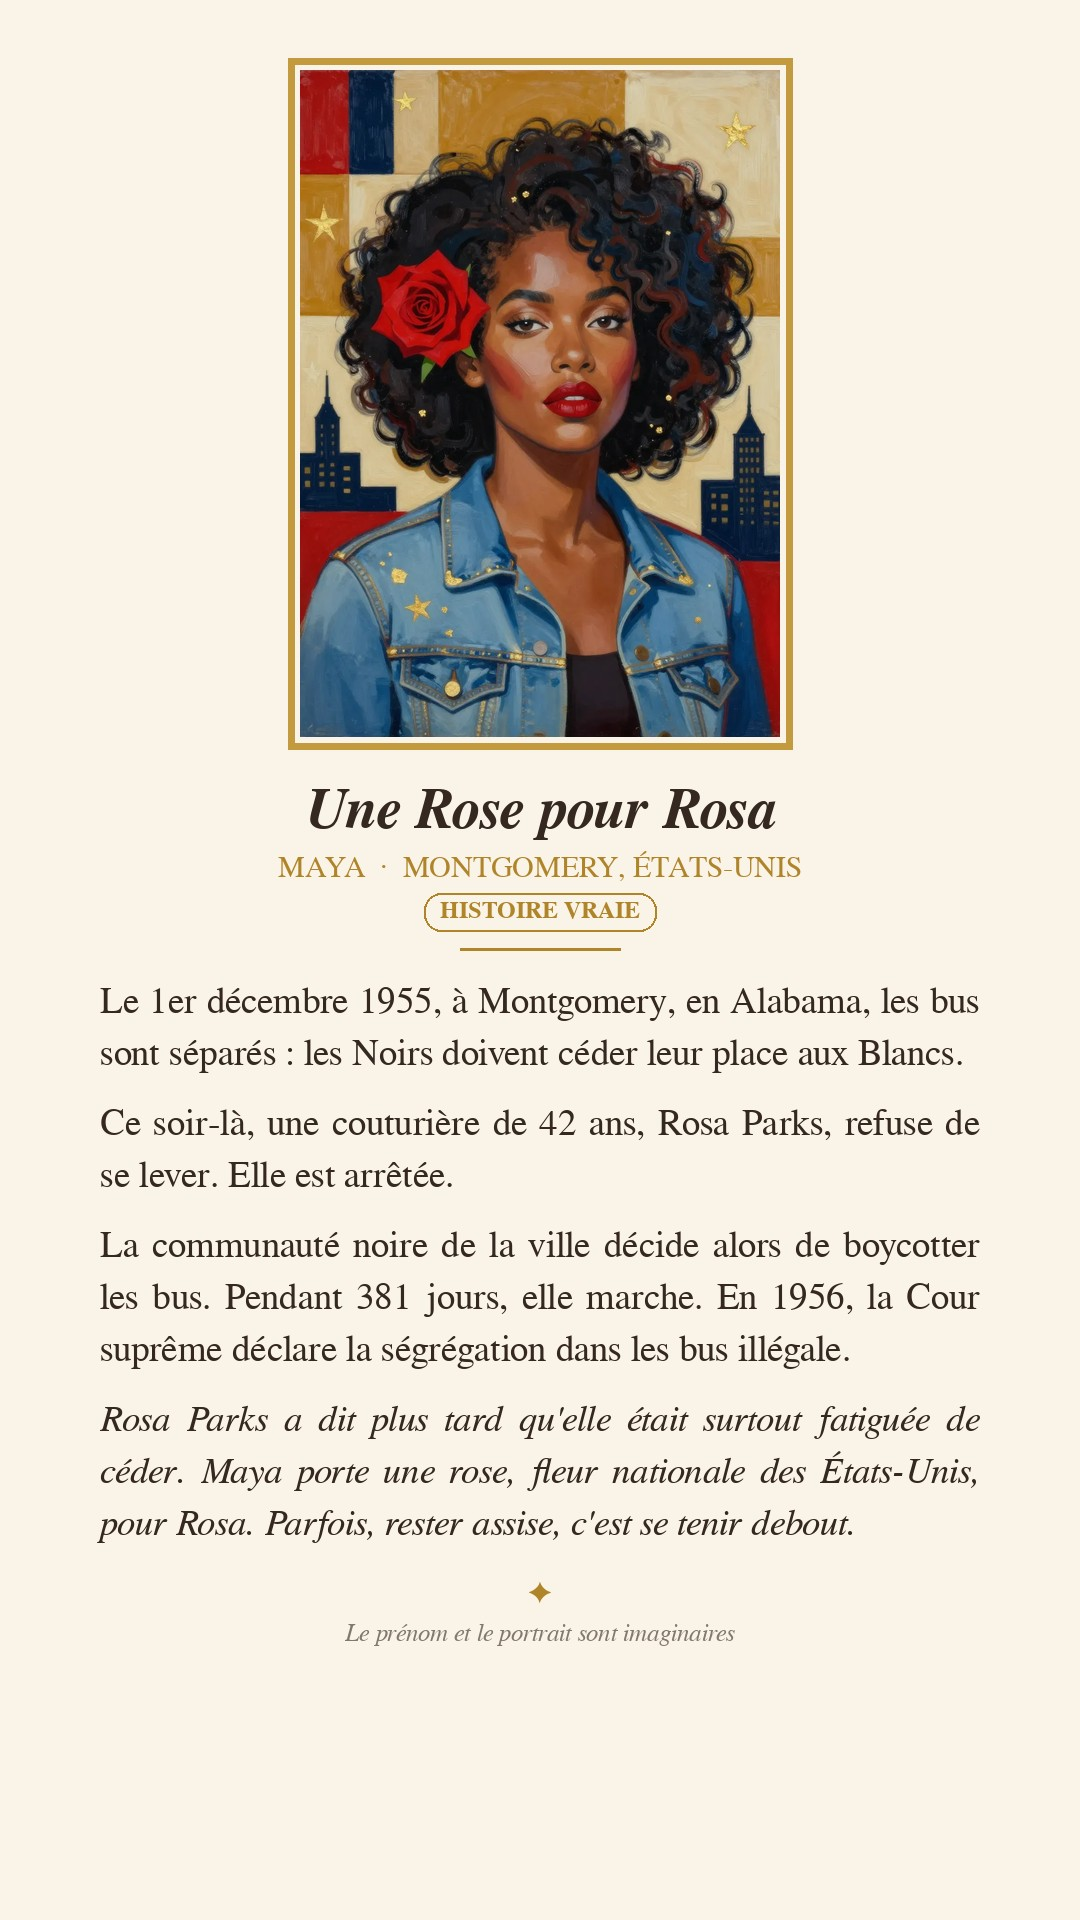
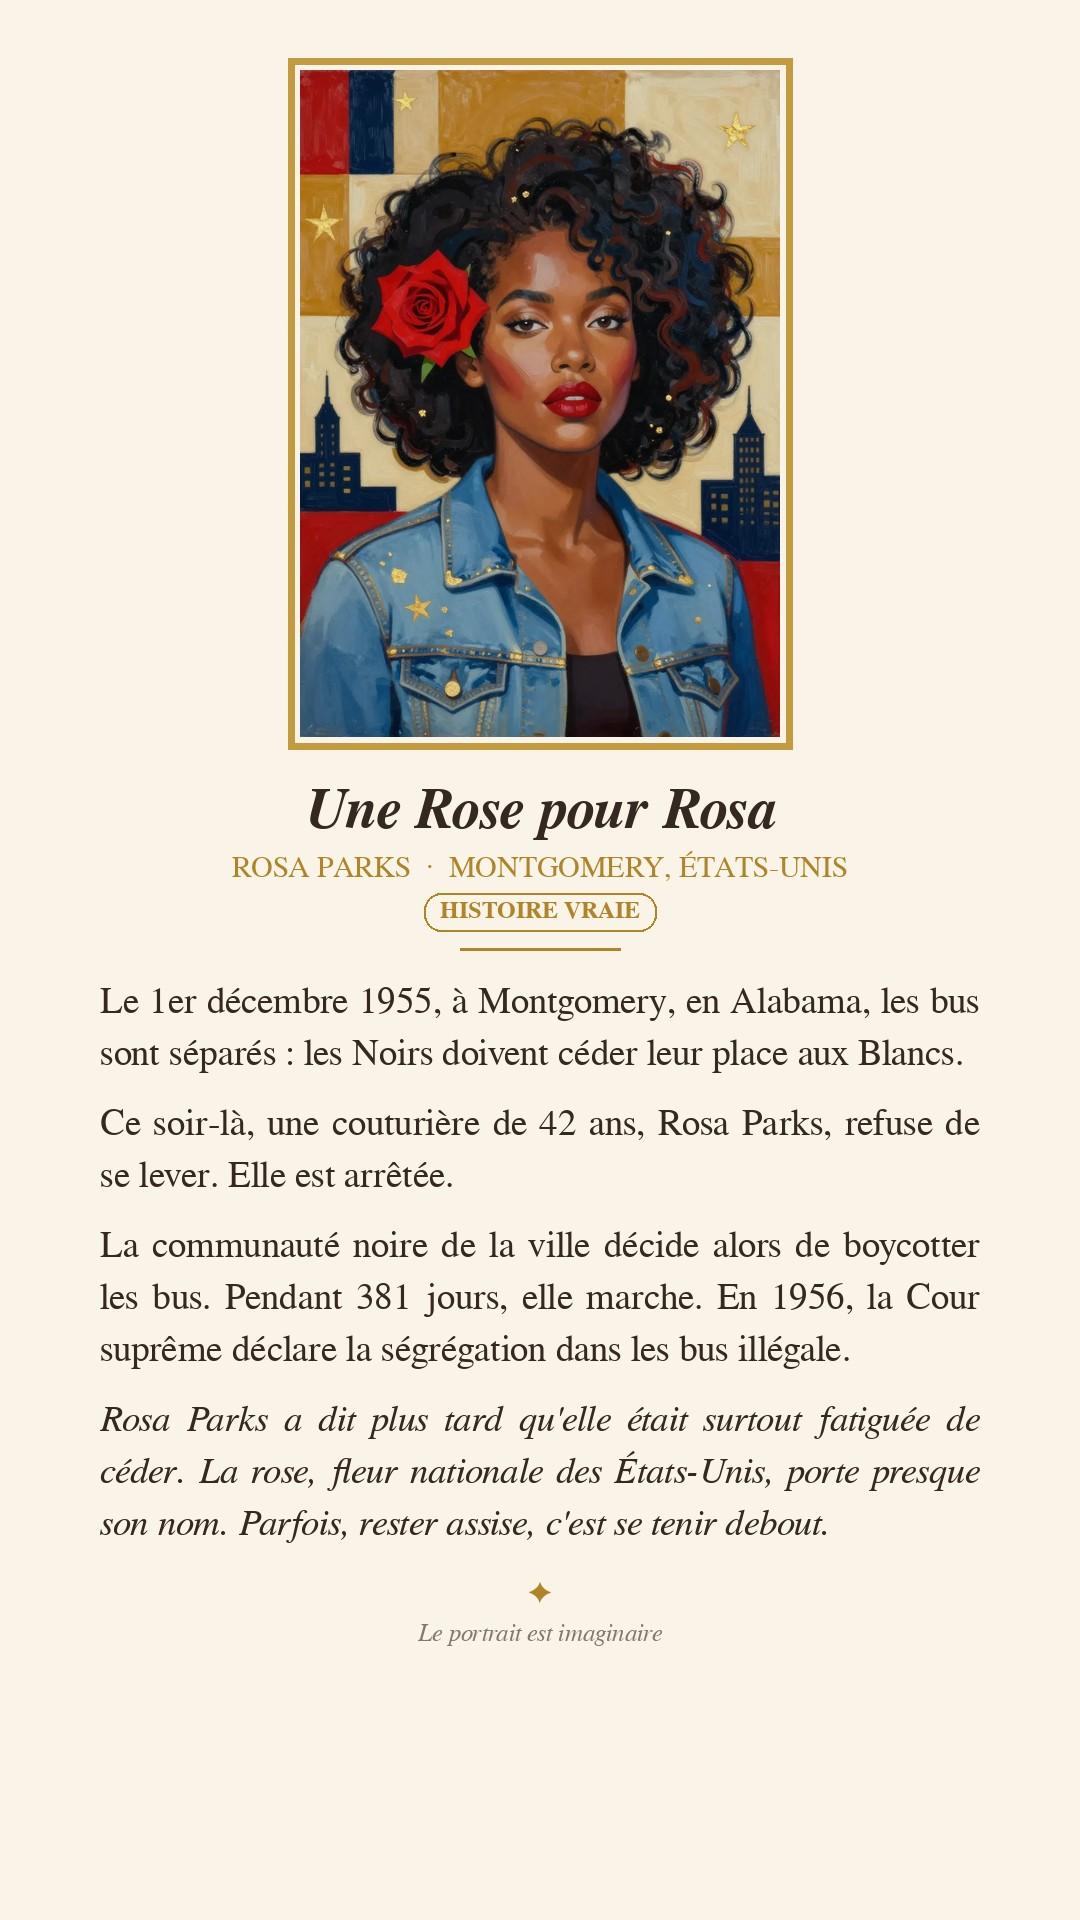
Vrais noms pour les histoires vraies, mention du portrait imaginaire
Claude-Session: https://claude.ai/code/session_01RyyLmYMP6bh7jN2UcDHNcF

Changed region(s): [[0.0917, 0.75, 0.9167, 0.8125], [0.2139, 0.4375, 0.7944, 0.4688], [0.3667, 0.8438, 0.6417, 0.875]]

diff --git a/index.html b/index.html
@@ -22,25 +22,25 @@ p.sub{color:var(--gold);letter-spacing:.15em;font-size:13px;margin-top:8px;text-
 <a href="/russe"><img src="/img/thumb-russe.jpg" alt="La Mouette" loading="lazy"><span>Irina</span></a>
 <a href="/chinoise"><img src="/img/thumb-chinoise.jpg" alt="La Fleur qui dit Non" loading="lazy"><span>Mei</span></a>
 <a href="/coreenne"><img src="/img/thumb-coreenne.jpg" alt="La Fleur Éternelle" loading="lazy"><span>Seo-Yeon</span></a>
-<a href="/indienne"><img src="/img/thumb-indienne.jpg" alt="La Maîtresse d'École" loading="lazy"><span>Ananya</span></a>
+<a href="/indienne"><img src="/img/thumb-indienne.jpg" alt="La Maîtresse d'École" loading="lazy"><span>Savitribai Phule</span></a>
 <a href="/iranienne"><img src="/img/thumb-iranienne.jpg" alt="Les Tulipes de Farhad" loading="lazy"><span>Leila</span></a>
 <a href="/japonaise"><img src="/img/thumb-japonaise.jpg" alt="Les Cerisiers de l'Amitié" loading="lazy"><span>Hana</span></a>
-<a href="/mongole"><img src="/img/thumb-mongole.jpg" alt="La Reine de la Steppe" loading="lazy"><span>Saraa</span></a>
+<a href="/mongole"><img src="/img/thumb-mongole.jpg" alt="La Reine de la Steppe" loading="lazy"><span>Mandukhai</span></a>
 <a href="/philippine"><img src="/img/thumb-philippine.jpg" alt="La Promesse" loading="lazy"><span>Mayumi</span></a>
-<a href="/thailandaise"><img src="/img/thumb-thailandaise.jpg" alt="L'Héroïne de Korat" loading="lazy"><span>Ploy</span></a>
-<a href="/vietnamienne"><img src="/img/thumb-vietnamienne.jpg" alt="Les Sœurs Trưng" loading="lazy"><span>Lan</span></a>
-<a href="/amazighe"><img src="/img/thumb-amazighe.jpg" alt="La Reine de l'Aurès" loading="lazy"><span>Tiziri</span></a>
-<a href="/egyptienne"><img src="/img/thumb-egyptienne.jpg" alt="La Femme Pharaon" loading="lazy"><span>Nour</span></a>
-<a href="/marocaine"><img src="/img/thumb-marocaine.jpg" alt="La Fondatrice" loading="lazy"><span>Yasmine</span></a>
-<a href="/senegalaise"><img src="/img/thumb-senegalaise.jpg" alt="La Reine de Casamance" loading="lazy"><span>Awa</span></a>
+<a href="/thailandaise"><img src="/img/thumb-thailandaise.jpg" alt="L'Héroïne de Korat" loading="lazy"><span>Thao Suranari</span></a>
+<a href="/vietnamienne"><img src="/img/thumb-vietnamienne.jpg" alt="Les Sœurs Trưng" loading="lazy"><span>Les Sœurs Trưng</span></a>
+<a href="/amazighe"><img src="/img/thumb-amazighe.jpg" alt="La Reine de l'Aurès" loading="lazy"><span>Dihya, La Kahina</span></a>
+<a href="/egyptienne"><img src="/img/thumb-egyptienne.jpg" alt="La Femme Pharaon" loading="lazy"><span>Hatchepsout</span></a>
+<a href="/marocaine"><img src="/img/thumb-marocaine.jpg" alt="La Fondatrice" loading="lazy"><span>Fatima Al-Fihri</span></a>
+<a href="/senegalaise"><img src="/img/thumb-senegalaise.jpg" alt="La Reine de Casamance" loading="lazy"><span>Aline Sitoé Diatta</span></a>
 <a href="/sud-africaine"><img src="/img/thumb-sud-africaine.jpg" alt="Les 20 000" loading="lazy"><span>Thandi</span></a>
 <a href="/argentine"><img src="/img/thumb-argentine.jpg" alt="La Fleur d'Anahí" loading="lazy"><span>Sofía</span></a>
 <a href="/bolivienne"><img src="/img/thumb-bolivienne.jpg" alt="Le Chapeau Melon" loading="lazy"><span>Wara</span></a>
-<a href="/bresilienne"><img src="/img/thumb-bresilienne.jpg" alt="Dandara" loading="lazy"><span>Luana</span></a>
+<a href="/bresilienne"><img src="/img/thumb-bresilienne.jpg" alt="Dandara" loading="lazy"><span>Dandara</span></a>
 <a href="/colombienne"><img src="/img/thumb-colombienne.jpg" alt="La Porteuse de Soleil" loading="lazy"><span>Amalia</span></a>
-<a href="/colombienne-orchidee"><img src="/img/thumb-colombienne-orchidee.jpg" alt="La Pola" loading="lazy"><span>Valentina</span></a>
+<a href="/colombienne-orchidee"><img src="/img/thumb-colombienne-orchidee.jpg" alt="La Pola" loading="lazy"><span>Policarpa Salavarrieta</span></a>
 <a href="/cubaine"><img src="/img/thumb-cubaine.jpg" alt="La Fleur des Mambisas" loading="lazy"><span>Yamilé</span></a>
 <a href="/mexicaine"><img src="/img/thumb-mexicaine.jpg" alt="Les Adelitas" loading="lazy"><span>Xóchitl</span></a>
-<a href="/americaine"><img src="/img/thumb-americaine.jpg" alt="Une Rose pour Rosa" loading="lazy"><span>Maya</span></a>
-<a href="/maorie"><img src="/img/thumb-maorie.jpg" alt="Le Droit de Parler" loading="lazy"><span>Aroha</span></a>
+<a href="/americaine"><img src="/img/thumb-americaine.jpg" alt="Une Rose pour Rosa" loading="lazy"><span>Rosa Parks</span></a>
+<a href="/maorie"><img src="/img/thumb-maorie.jpg" alt="Le Droit de Parler" loading="lazy"><span>Meri Mangakāhia</span></a>
 <a href="/polynesienne"><img src="/img/thumb-polynesienne.jpg" alt="La Fleur de Tiaré" loading="lazy"><span>Hinano</span></a></div></body></html>

diff --git a/senegalaise.html b/senegalaise.html
@@ -11,6 +11,6 @@ main{max-width:600px;margin:0 auto}
 img{display:block;width:100%;height:auto}
 a.more{display:block;text-align:center;color:var(--gold);text-decoration:none;font-style:italic;font-size:17px;padding:18px 16px 32px}
 </style></head><body><main>
-<img src="/img/senegalaise.jpg" alt="La Reine de Casamance — Awa">
+<img src="/img/senegalaise.jpg" alt="La Reine de Casamance — Aline Sitoé Diatta">
 <a class="more" href="/">✦ Découvrir les 30 femmes de la collection</a>
 </main></body></html>

diff --git a/colombienne-orchidee.html b/colombienne-orchidee.html
@@ -11,6 +11,6 @@ main{max-width:600px;margin:0 auto}
 img{display:block;width:100%;height:auto}
 a.more{display:block;text-align:center;color:var(--gold);text-decoration:none;font-style:italic;font-size:17px;padding:18px 16px 32px}
 </style></head><body><main>
-<img src="/img/colombienne-orchidee.jpg" alt="La Pola — Valentina">
+<img src="/img/colombienne-orchidee.jpg" alt="La Pola — Policarpa Salavarrieta">
 <a class="more" href="/">✦ Découvrir les 30 femmes de la collection</a>
 </main></body></html>

diff --git a/indienne.html b/indienne.html
@@ -11,6 +11,6 @@ main{max-width:600px;margin:0 auto}
 img{display:block;width:100%;height:auto}
 a.more{display:block;text-align:center;color:var(--gold);text-decoration:none;font-style:italic;font-size:17px;padding:18px 16px 32px}
 </style></head><body><main>
-<img src="/img/indienne.jpg" alt="La Maîtresse d'École — Ananya">
+<img src="/img/indienne.jpg" alt="La Maîtresse d'École — Savitribai Phule">
 <a class="more" href="/">✦ Découvrir les 30 femmes de la collection</a>
 </main></body></html>

diff --git a/thailandaise.html b/thailandaise.html
@@ -11,6 +11,6 @@ main{max-width:600px;margin:0 auto}
 img{display:block;width:100%;height:auto}
 a.more{display:block;text-align:center;color:var(--gold);text-decoration:none;font-style:italic;font-size:17px;padding:18px 16px 32px}
 </style></head><body><main>
-<img src="/img/thailandaise.jpg" alt="L'Héroïne de Korat — Ploy">
+<img src="/img/thailandaise.jpg" alt="L'Héroïne de Korat — Thao Suranari">
 <a class="more" href="/">✦ Découvrir les 30 femmes de la collection</a>
 </main></body></html>

diff --git a/amazighe.html b/amazighe.html
@@ -11,6 +11,6 @@ main{max-width:600px;margin:0 auto}
 img{display:block;width:100%;height:auto}
 a.more{display:block;text-align:center;color:var(--gold);text-decoration:none;font-style:italic;font-size:17px;padding:18px 16px 32px}
 </style></head><body><main>
-<img src="/img/amazighe.jpg" alt="La Reine de l'Aurès — Tiziri">
+<img src="/img/amazighe.jpg" alt="La Reine de l'Aurès — Dihya, La Kahina">
 <a class="more" href="/">✦ Découvrir les 30 femmes de la collection</a>
 </main></body></html>

diff --git a/vietnamienne.html b/vietnamienne.html
@@ -11,6 +11,6 @@ main{max-width:600px;margin:0 auto}
 img{display:block;width:100%;height:auto}
 a.more{display:block;text-align:center;color:var(--gold);text-decoration:none;font-style:italic;font-size:17px;padding:18px 16px 32px}
 </style></head><body><main>
-<img src="/img/vietnamienne.jpg" alt="Les Sœurs Trưng — Lan">
+<img src="/img/vietnamienne.jpg" alt="Les Sœurs Trưng — Les Sœurs Trưng">
 <a class="more" href="/">✦ Découvrir les 30 femmes de la collection</a>
 </main></body></html>

diff --git a/americaine.html b/americaine.html
@@ -11,6 +11,6 @@ main{max-width:600px;margin:0 auto}
 img{display:block;width:100%;height:auto}
 a.more{display:block;text-align:center;color:var(--gold);text-decoration:none;font-style:italic;font-size:17px;padding:18px 16px 32px}
 </style></head><body><main>
-<img src="/img/americaine.jpg" alt="Une Rose pour Rosa — Maya">
+<img src="/img/americaine.jpg" alt="Une Rose pour Rosa — Rosa Parks">
 <a class="more" href="/">✦ Découvrir les 30 femmes de la collection</a>
 </main></body></html>

diff --git a/mongole.html b/mongole.html
@@ -11,6 +11,6 @@ main{max-width:600px;margin:0 auto}
 img{display:block;width:100%;height:auto}
 a.more{display:block;text-align:center;color:var(--gold);text-decoration:none;font-style:italic;font-size:17px;padding:18px 16px 32px}
 </style></head><body><main>
-<img src="/img/mongole.jpg" alt="La Reine de la Steppe — Saraa">
+<img src="/img/mongole.jpg" alt="La Reine de la Steppe — Mandukhai">
 <a class="more" href="/">✦ Découvrir les 30 femmes de la collection</a>
 </main></body></html>

diff --git a/maorie.html b/maorie.html
@@ -11,6 +11,6 @@ main{max-width:600px;margin:0 auto}
 img{display:block;width:100%;height:auto}
 a.more{display:block;text-align:center;color:var(--gold);text-decoration:none;font-style:italic;font-size:17px;padding:18px 16px 32px}
 </style></head><body><main>
-<img src="/img/maorie.jpg" alt="Le Droit de Parler — Aroha">
+<img src="/img/maorie.jpg" alt="Le Droit de Parler — Meri Mangakāhia">
 <a class="more" href="/">✦ Découvrir les 30 femmes de la collection</a>
 </main></body></html>

diff --git a/egyptienne.html b/egyptienne.html
@@ -11,6 +11,6 @@ main{max-width:600px;margin:0 auto}
 img{display:block;width:100%;height:auto}
 a.more{display:block;text-align:center;color:var(--gold);text-decoration:none;font-style:italic;font-size:17px;padding:18px 16px 32px}
 </style></head><body><main>
-<img src="/img/egyptienne.jpg" alt="La Femme Pharaon — Nour">
+<img src="/img/egyptienne.jpg" alt="La Femme Pharaon — Hatchepsout">
 <a class="more" href="/">✦ Découvrir les 30 femmes de la collection</a>
 </main></body></html>

diff --git a/marocaine.html b/marocaine.html
@@ -11,6 +11,6 @@ main{max-width:600px;margin:0 auto}
 img{display:block;width:100%;height:auto}
 a.more{display:block;text-align:center;color:var(--gold);text-decoration:none;font-style:italic;font-size:17px;padding:18px 16px 32px}
 </style></head><body><main>
-<img src="/img/marocaine.jpg" alt="La Fondatrice — Yasmine">
+<img src="/img/marocaine.jpg" alt="La Fondatrice — Fatima Al-Fihri">
 <a class="more" href="/">✦ Découvrir les 30 femmes de la collection</a>
 </main></body></html>
